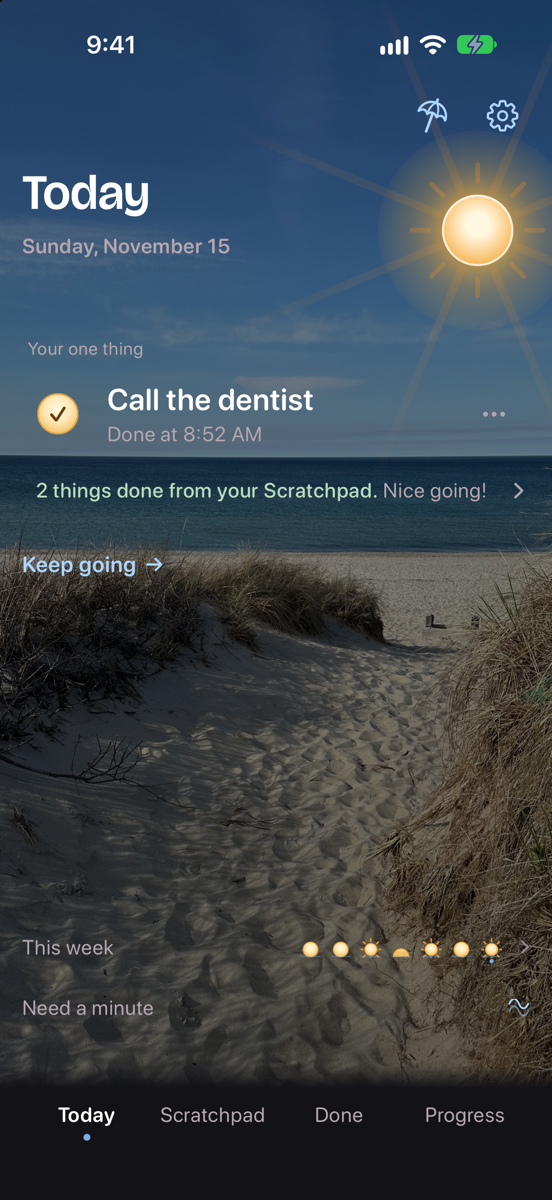
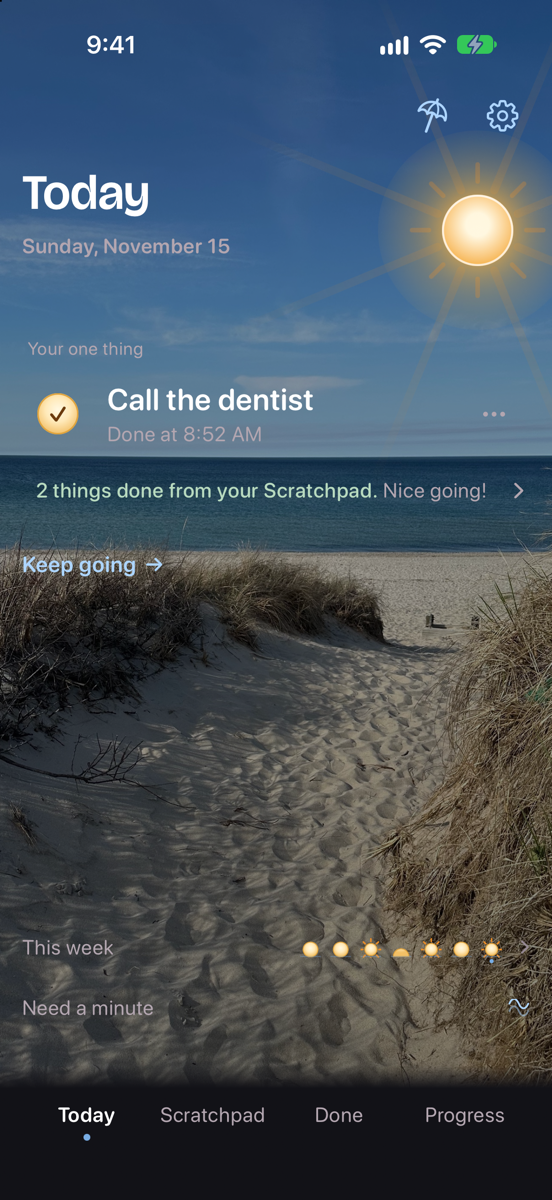
Features: Eleven themes, six more named, brighter Your photo

diff --git a/features.html b/features.html
@@ -15,7 +15,7 @@
   <meta property="og:image" content="https://getsoonish.co/images/social.png?v=20261112">
   <link rel="icon" href="logo.svg?v=20261112" type="image/svg+xml">
   <link rel="apple-touch-icon" href="apple-touch-icon.png?v=20261112">
-  <link rel="stylesheet" href="style.css?v=20261115b">
+  <link rel="stylesheet" href="style.css?v=20261115c">
 </head>
 <body>
 <div class="sky" aria-hidden="true"><svg class="sun" viewBox="-100 -100 200 200" width="190" height="190">
@@ -272,7 +272,7 @@
       <h2>Soonish Plus</h2>
       <p class="group-lede">Soonish is free, with no limits. Plus is extra, for people who want a little more.</p>
       <ul>
-        <li><b>Themes and app icons.</b> Calm colors, clean ones like Ink and Pearl, and bold ones like Aurora, Holo, or your own photo. Every theme gets its own sky.</li>
+        <li><b>Themes and app icons.</b> Eleven themes: calm colors, clean ones like Ink and Pearl, and bold ones like Aurora, Holo, or your own photo. Every theme gets its own sky.</li>
         <li><b>Focus sounds.</b> Soft brown, pink or white noise under any timer, even with your phone locked.</li>
         <li><b>Today on the Lock Screen.</b> Check off your picks right there, and see them in the Dynamic Island and on your Apple Watch.</li>
         <li><b>StandBy.</b> Your day's ring and what's next, while your iPhone charges on its side.</li>
@@ -299,10 +299,11 @@
         <figcaption>Aurora</figcaption>
       </figure>
       <figure class="phone">
-        <img src="images/theme-photo.png?v=20261115a" alt="Today in the Your photo theme: a path through beach dunes to the ocean fills the screen, with the sun in the sky." width="552" height="1200" loading="lazy">
+        <img src="images/theme-photo.png?v=20261115b" alt="Today in the Your photo theme: a path through beach dunes to the ocean fills the screen, with the sun in the sky." width="552" height="1200" loading="lazy">
         <figcaption>Your photo</figcaption>
       </figure>
     </div>
+    <p class="reel-note">And 6 more: Rosewood, Brick, Denim, Ink, Pearl and Holo.</p>
   </section>
 
   <div class="card small">

diff --git a/style.css b/style.css
@@ -262,6 +262,7 @@ footer {
 .group .reel { margin-top: 32px; }
 .reel.four { grid-template-columns: repeat(4, minmax(0, 1fr)); gap: 20px; }
 .reel.five { grid-template-columns: repeat(5, minmax(0, 1fr)); gap: 16px; }
+.reel-note { margin: 0; text-align: center; color: var(--muted); }
 /* Two phones keep the size they'd have in a row of three, centered. */
 .reel.two { grid-template-columns: repeat(2, minmax(0, 1fr)); max-width: calc((100% - 56px) * 2 / 3 + 28px); margin-left: auto; margin-right: auto; }
 

diff --git a/index.html b/index.html
@@ -20,7 +20,7 @@
   <meta name="twitter:card" content="summary_large_image">
   <link rel="icon" href="logo.svg?v=20261112" type="image/svg+xml">
   <link rel="apple-touch-icon" href="apple-touch-icon.png?v=20261112">
-  <link rel="stylesheet" href="style.css?v=20261115b">
+  <link rel="stylesheet" href="style.css?v=20261115c">
 </head>
 <body>
 <div class="sky" aria-hidden="true"><svg class="sun" viewBox="-100 -100 200 200" width="190" height="190">

diff --git a/privacy.html b/privacy.html
@@ -9,7 +9,7 @@
   <link rel="canonical" href="https://getsoonish.co/privacy.html">
   <link rel="icon" href="logo.svg?v=20261112" type="image/svg+xml">
   <link rel="apple-touch-icon" href="apple-touch-icon.png?v=20261112">
-  <link rel="stylesheet" href="style.css?v=20261115b">
+  <link rel="stylesheet" href="style.css?v=20261115c">
 </head>
 <body>
 <main>

diff --git a/support.html b/support.html
@@ -9,7 +9,7 @@
   <link rel="canonical" href="https://getsoonish.co/support.html">
   <link rel="icon" href="logo.svg?v=20261112" type="image/svg+xml">
   <link rel="apple-touch-icon" href="apple-touch-icon.png?v=20261112">
-  <link rel="stylesheet" href="style.css?v=20261115b">
+  <link rel="stylesheet" href="style.css?v=20261115c">
 </head>
 <body>
 <main>

diff --git a/thanks.html b/thanks.html
@@ -8,7 +8,7 @@
   <meta name="robots" content="noindex">
   <link rel="icon" href="logo.svg?v=20261112" type="image/svg+xml">
   <link rel="apple-touch-icon" href="apple-touch-icon.png?v=20261112">
-  <link rel="stylesheet" href="style.css?v=20261115b">
+  <link rel="stylesheet" href="style.css?v=20261115c">
 </head>
 <body>
 <main>
